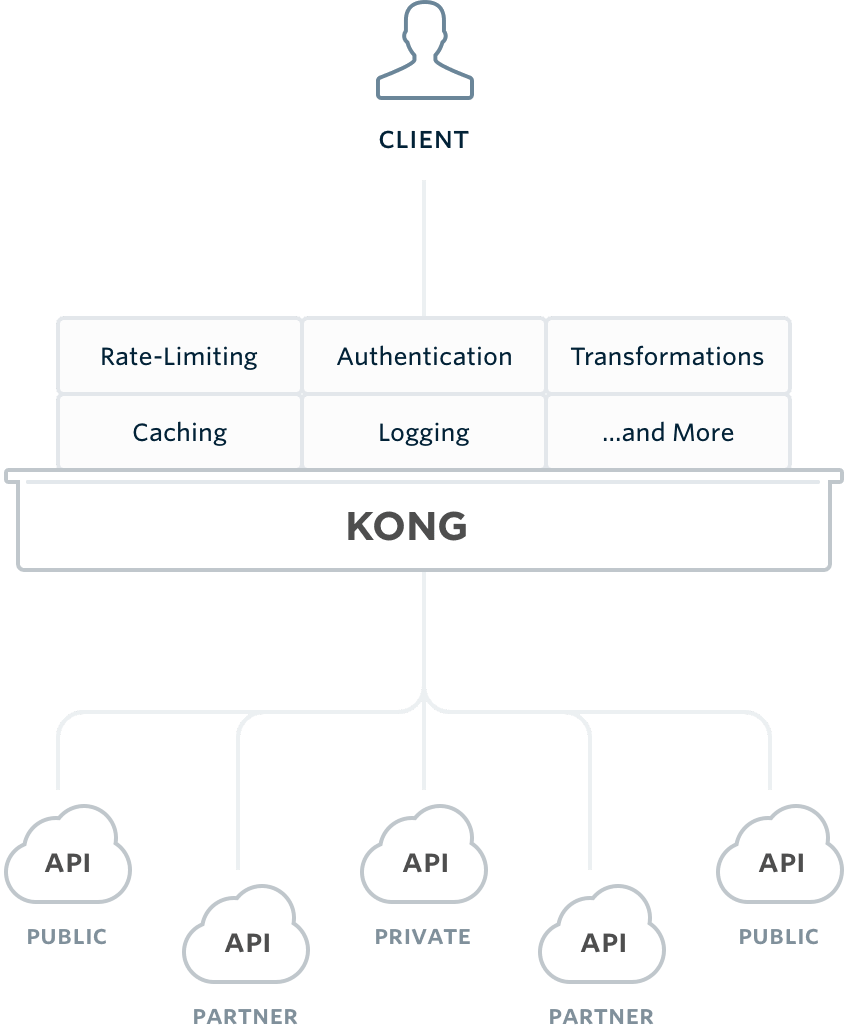
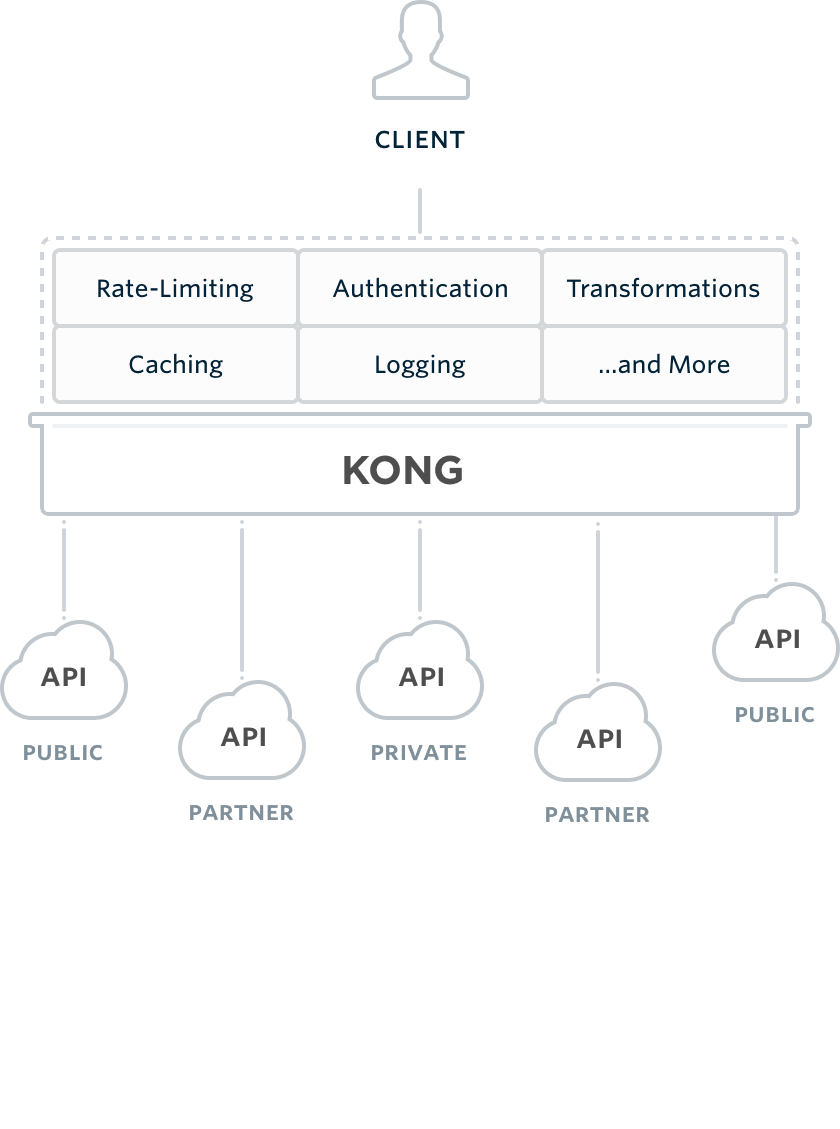
change some homepage illustrations, update styles

diff --git a/app/index.html b/app/index.html
@@ -6,10 +6,10 @@ layout: default
   <div class="container">
     <div class="row">
       <div class="one-half column">
-        <h2>Secure, Manage &amp; Extend your APIs or Microservices</h2>
+        <h2>Secure, Manage &amp; Extend your&nbsp;APIs and Microservices</h2>
         <p>The open-source management layer for APIs, delivering high performance and reliability.</p>
         <p>
-          <a href="/download" class="button button-primary button-large" data-analytics='{"event": "Clicked download", "type": "button", "location": "home page top"}'>Download ({{ site.data.kong_latest }})</a>
+          <a href="/download" class="button button-primary button-large" data-analytics='{"event": "Clicked download", "type": "button", "location": "home page top"}'>Download Kong</a>
           <a href="#comparison" class="button button-dark button-large scroll-to">Why Kong?</a>
         </p>
       </div>
@@ -26,17 +26,17 @@ layout: default
   <div class="container">
     <div class="row">
       <div class="four columns">
-        <h3>RESTful Interface</h3>
+        <h4>RESTful Interface</h4>
         <img src="/assets/images/homepage/rest-interface.png" alt=""/>
         <p>Built on top of NGINX, Kong can be fully operated with a simple and easy to use RESTful API.</p>
       </div>
       <div class="four columns">
-        <h3>Plugin Oriented </h3>
+        <h4>Plugin Oriented </h4>
         <img src="/assets/images/homepage/plugin-oriented.png" alt=""/>
         <p>Put your services behind Kong and add powerful functionality through Kong Plugins, in one command. </p>
       </div>
       <div class="four columns">
-        <h3>Platform Agnostic</h3>
+        <h4>Platform Agnostic</h4>
         <img src="/assets/images/homepage/platform-agnostic.png" alt=""/>
         <p>Kong can run anywhere, in the cloud or on-premise - in a single, hybrid or multi-datacenter setup.</p>
       </div>
@@ -100,10 +100,6 @@ layout: default
       </div>
     </div>
   </div>
-
-  <div class="section-buttons">
-    <a href="/docs" class="button button-dark button-large">Continue to Documentation</a>
-  </div>
 </section>
 
 <section id="comparison" class="section comparison-section">
@@ -119,17 +115,7 @@ layout: default
         <figure>
           <img src="/assets/images/homepage/diagram-left.png" alt=""/>
         </figure>
-      </div>
-      <div class="one-half column">
-        <h4>Kong Achitecture</h4>
 
-        <figure>
-          <img src="/assets/images/homepage/diagram-right.png" alt=""/>
-        </figure>
-      </div>
-    </div>
-    <div class="row">
-      <div class="one-half column">
         <div class="alert alert-danger">
           <span class="fa fa-close"></span>
           Common functionality is duplicated across multiple services
@@ -148,6 +134,12 @@ layout: default
         </div>
       </div>
       <div class="one-half column">
+        <h4>Kong Achitecture</h4>
+
+        <figure>
+          <img src="/assets/images/homepage/diagram-right.png" alt=""/>
+        </figure>
+
         <div class="alert alert-success">
           <span class="fa fa-check"></span>
           Kong centralizes and unifies functionality into one place

diff --git a/app/_assets/stylesheets/pages/homepage.less b/app/_assets/stylesheets/pages/homepage.less
@@ -3,14 +3,18 @@
   color: rgba(255, 255, 255, .5);
   font-size: 18px;
   line-height: 32px;
-  padding: 100px 0 85px 0;
+  padding: 60px 0 80px 0;
 
   h2 {
     color: #fff;
-    font-size: 34px;
+    font-size: 32px;
     margin: 50px 0 12px 0;
     border-bottom: 1px solid rgba(255, 255, 255, .2);
     padding-bottom: 17px;
+  }
+
+  figure {
+    margin-top: 35px;
   }
 
   .button {
@@ -29,8 +33,8 @@
 .features-section {
   text-align: center;
 
-  h3 {
-    margin-bottom: 40px;
+  h4 {
+    margin-bottom: 25px;
     color: @blue;
   }
 
@@ -115,7 +119,7 @@
 }
 
 .get-started-section {
-  background-color: @gray-darker;
+  background-color: #22292e;
   color: #fff;
   padding: 75px 0;
 
@@ -128,7 +132,7 @@
   }
 
   h4 {
-    color: #73c5ff;
+    color: #6ac0fc;
     margin-bottom: 8px;
   }
 
@@ -147,7 +151,7 @@
         font-size: 13px;
         width: 36px;
         height: 36px;
-        border: 2px solid #206799;
+        border: 2px solid rgba(255, 255, 255, .5);
         line-height: 34px;
         left: -19px;
       }
@@ -164,7 +168,7 @@
   }
 
   code {
-    background-color: #1e262b;
+    background-color: #1d2328;
     color: #fff;
     padding: 18px;
     overflow: auto;
@@ -177,83 +181,55 @@
       color: @green;
     }
   }
-
-  .section-buttons {
-    margin-top: 10px;
-  }
-
-  .button {
-    border-color: #3c4348;
-    background: #3c4348;
-
-    &:hover {
-      border-color: lighten(#3c4348, 5%);
-      background: lighten(#3c4348, 5%);
-    }
-  }
 }
 
 .comparison-section {
   position: relative;
 
-  &:before {
-    content: "";
-    position: absolute;
-    height: 82%;
-    width: 2px;
-    background-color: #f0f0f0;
-    top: 14%;
-    left: 50%;
-    margin-left: -1px;
-
-    @media (max-width: 550px) {
-      display: none;
-    }
-  }
-
   .section-header {
-    margin-bottom: 60px;
+    margin-bottom: 50px;
+
+    h2 {
+      color: @blue;
+    }
   }
 
   h4 {
     text-align: center;
     margin-bottom: 35px;
-    color: @blue;
   }
 
   .column {
-    &:first-child {
-      padding-right: 10px;
-    }
+    border: 1px solid #f7b9b9;
+    padding-top: 35px;
+    border-radius: 3px;
 
     &:last-child {
-      padding-left: 10px;
-    }
-
-    @media (max-width: 550px) {
-      &:first-child,
-      &:last-child {
-        padding: 0;
-      }
+      border-color: #a2d2f5;
     }
   }
 
   figure {
-    padding: 0 27px;
-  }
-
-  .row:first-child {
-    margin-bottom: 50px;
+    padding: 0 33px;
+    margin-bottom: 45px;
   }
 
   .alert {
     font-family: @family-whitney-ss;
     font-size: 14px;
     color: @gray-dark;
-    margin-bottom: 4px;
+    margin-top: 1px;
     border: 0 none;
-    padding: 9px 15px;
+    padding: 9px 0 9px 20px;
     border-radius: 0;
+
+    &:last-child {
+      border-radius: 0 0 3px 3px;
+    }
+
+    &.alert-success {
+      background-color: #f3f8fc;
+    }
 
     .fa {
       font-size: 11px;
@@ -265,7 +241,7 @@
     }
 
     .fa-check {
-      color: @green;
+      color: @blue-light;
     }
   }
 }
